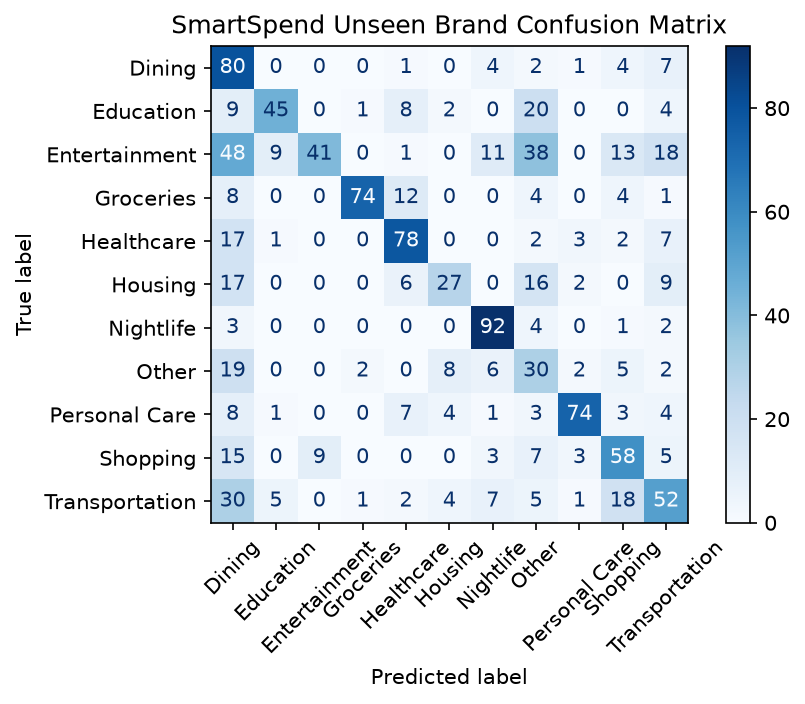
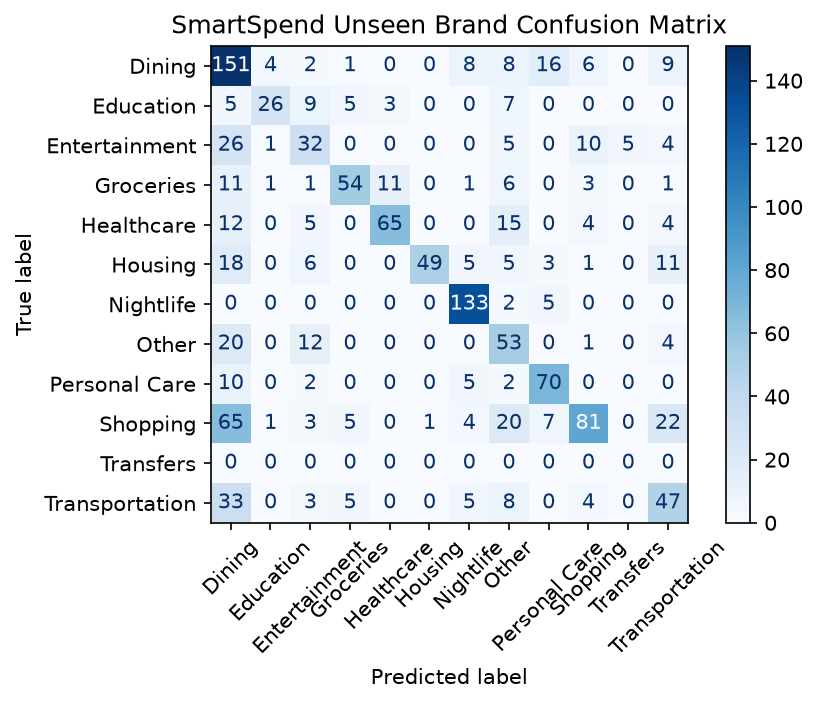
Update evaluation results and dashboard documentation

diff --git a/docs/metrics-notes.md b/docs/metrics-notes.md
@@ -10,24 +10,14 @@ Dataset: data/real_merchants.csv
 
 | Random State | Random Split | Unseen Brand Split |
 |---|---|---|
-| 42 | 98.99% | 55.98% |
-| 7 | 98.29% | 54.23% |
-| 99 | 98.99% | 57.48% |
-| Average | 98.76% | 55.90% |
+| 42 | 98.40% | 60.02% |
+| 7 | 97.82% | 52.18% |
+| 99 | 98.11% | 56.44% |
+| Average | 98.11% | 56.21% |
 
 ### Analysis
 
-The categorization model performed significantly better
-on random transaction splits than unseen-brand splits.
-
-Random splitting achieved an average accuracy of 98.76%,
-compared with 55.90% for unseen brands.
-
-This 42.86 percentage-point difference suggests the model
-relies heavily on recognizing familiar merchants.
-
-Unseen-brand testing provides a more realistic measure
-of how the model handles unfamiliar merchants.
+The updated dataset contains 6,883 transactions across 883 merchant brands. Random-split accuracy averaged 98.11%, while unseen-brand accuracy averaged 56.21%. Compared with the previous unseen-brand average of 55.90%, accuracy improved slightly by 0.31 percentage points. However, performance varied between random states, showing that the model still struggles with unfamiliar merchants.
 
 ## 2. Confusion Matrix
 
@@ -38,20 +28,7 @@ split with random state 42.
 
 ### Main Findings
 
-The largest classification errors included:
-
-- Entertainment predicted as Dining: 48 transactions
-- Entertainment predicted as Other: 38 transactions
-- Transportation predicted as Dining: 30 transactions
-- Education predicted as Other: 20 transactions
-- Other predicted as Dining: 19 transactions
-- Transportation predicted as Shopping: 18 transactions
-
-Entertainment was particularly difficult to classify,
-with only 41 of 179 transactions correctly predicted.
-
-Other weak categories included Housing, Other,
-and Transportation.
+The updated unseen-brand confusion matrix shows that the strongest categories are Nightlife, Dining, Shopping, Personal Care, Healthcare, and Groceries, which all have relatively high correct counts on the diagonal. Nightlife is especially strong, with 133 correct predictions and very few mix-ups. The model still struggles most with categories that overlap in wording or merchant type. The biggest error is Shopping being predicted as Dining (65 rows). Other common mix-ups include Transportation → Dining (33), Entertainment → Dining (26), Other → Dining (20), Housing → Dining (18), and Healthcare → Other (15). The matrix also shows that Transfers had no test rows in this split, so it could not really be evaluated here. Overall, the model is best on clear merchant types, but it still tends to over-predict Dining and sometimes Other when a merchant is unfamiliar.
 
 ### Analysis
 

diff --git a/README.md b/README.md
@@ -11,7 +11,7 @@ Students export their transaction history as a CSV (from a bank, Venmo, etc.), u
 - **Python** — pandas (data handling), scikit-learn (ML)
 - **Text Classification** — TF-IDF + Naive Bayes / Logistic Regression, to categorize transactions
 - **Anomaly Detection** — Isolation Forest, to flag unusual transactions
-- **Dashboard (stretch goal)** — Streamlit
+- **Dashboard** — Streamlit
 
 ## Project structure
 ```
@@ -31,6 +31,17 @@ smartspend/
    - Mac/Linux: `source venv/bin/activate`
    - Windows: `venv\Scripts\activate`
 4. Install dependencies: `pip install -r requirements.txt`
+
+### Run the SmartSpend Dashboard
+
+After installing the requirements, run:
+
+```bash
+python -m streamlit run src/dashboard.py
+```
+
+The dashboard will open at http://localhost:8501.
+
 
 ## Team
 - **Project Lead:** Lucas
